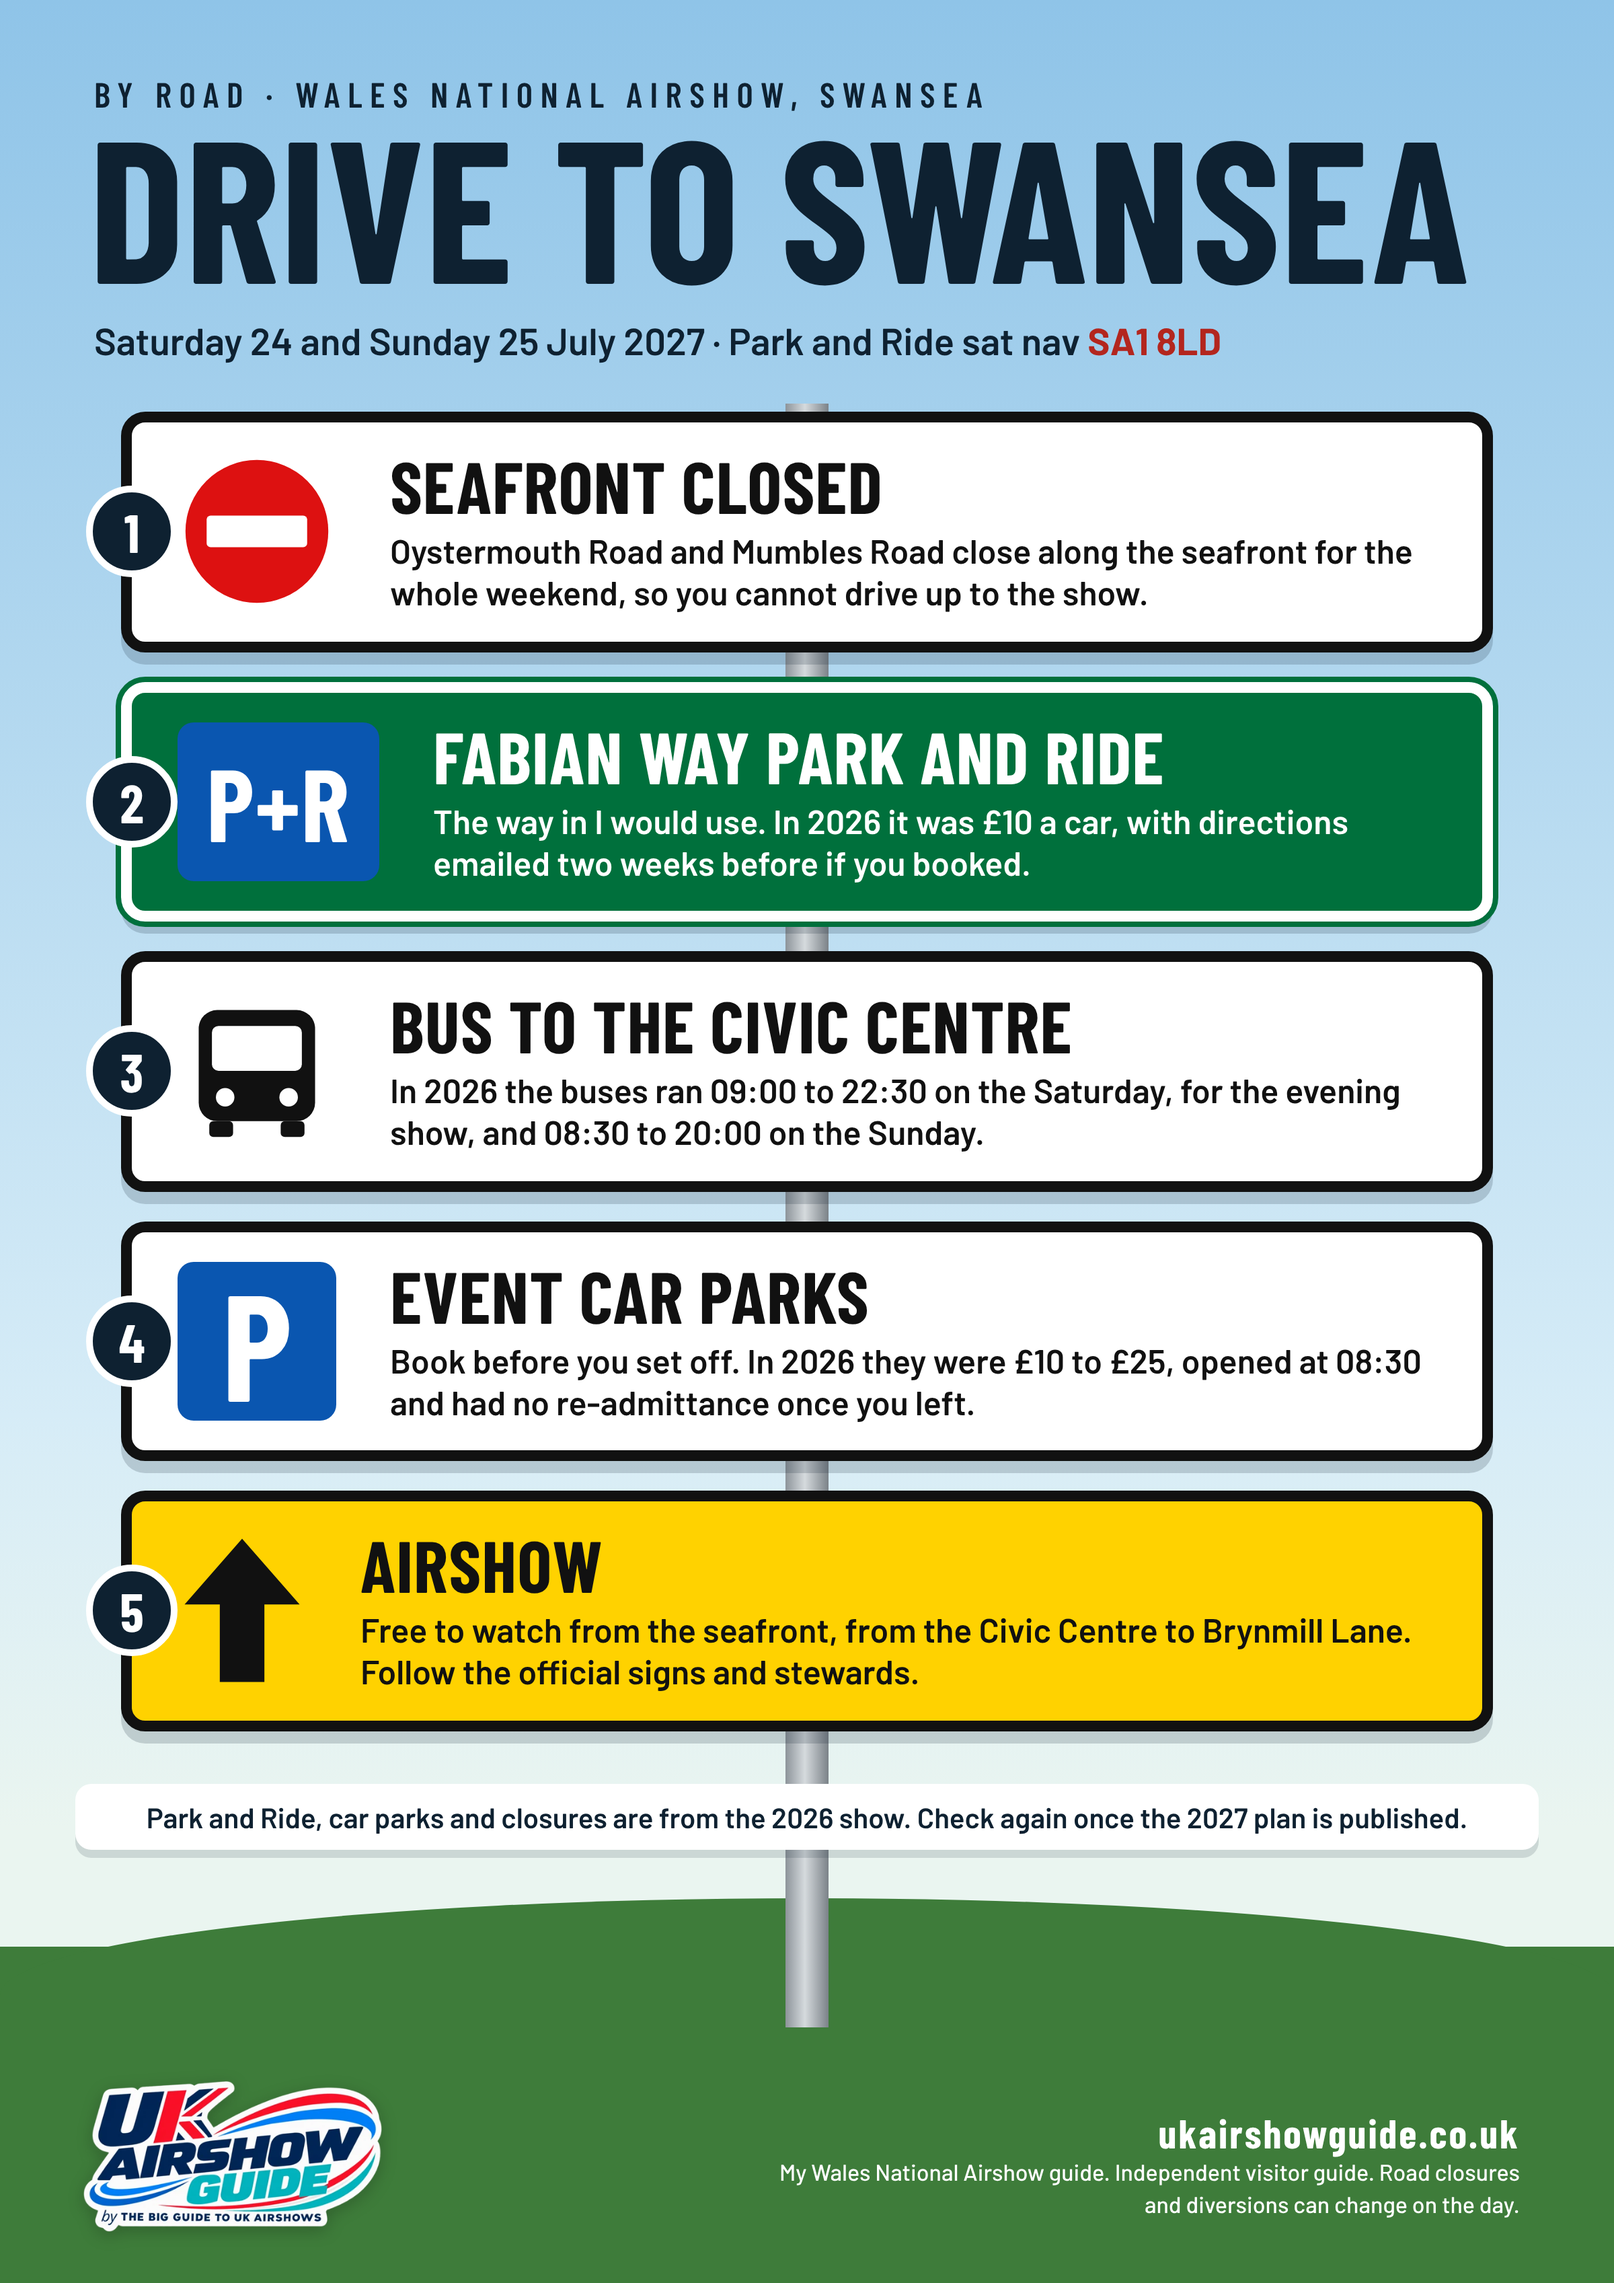
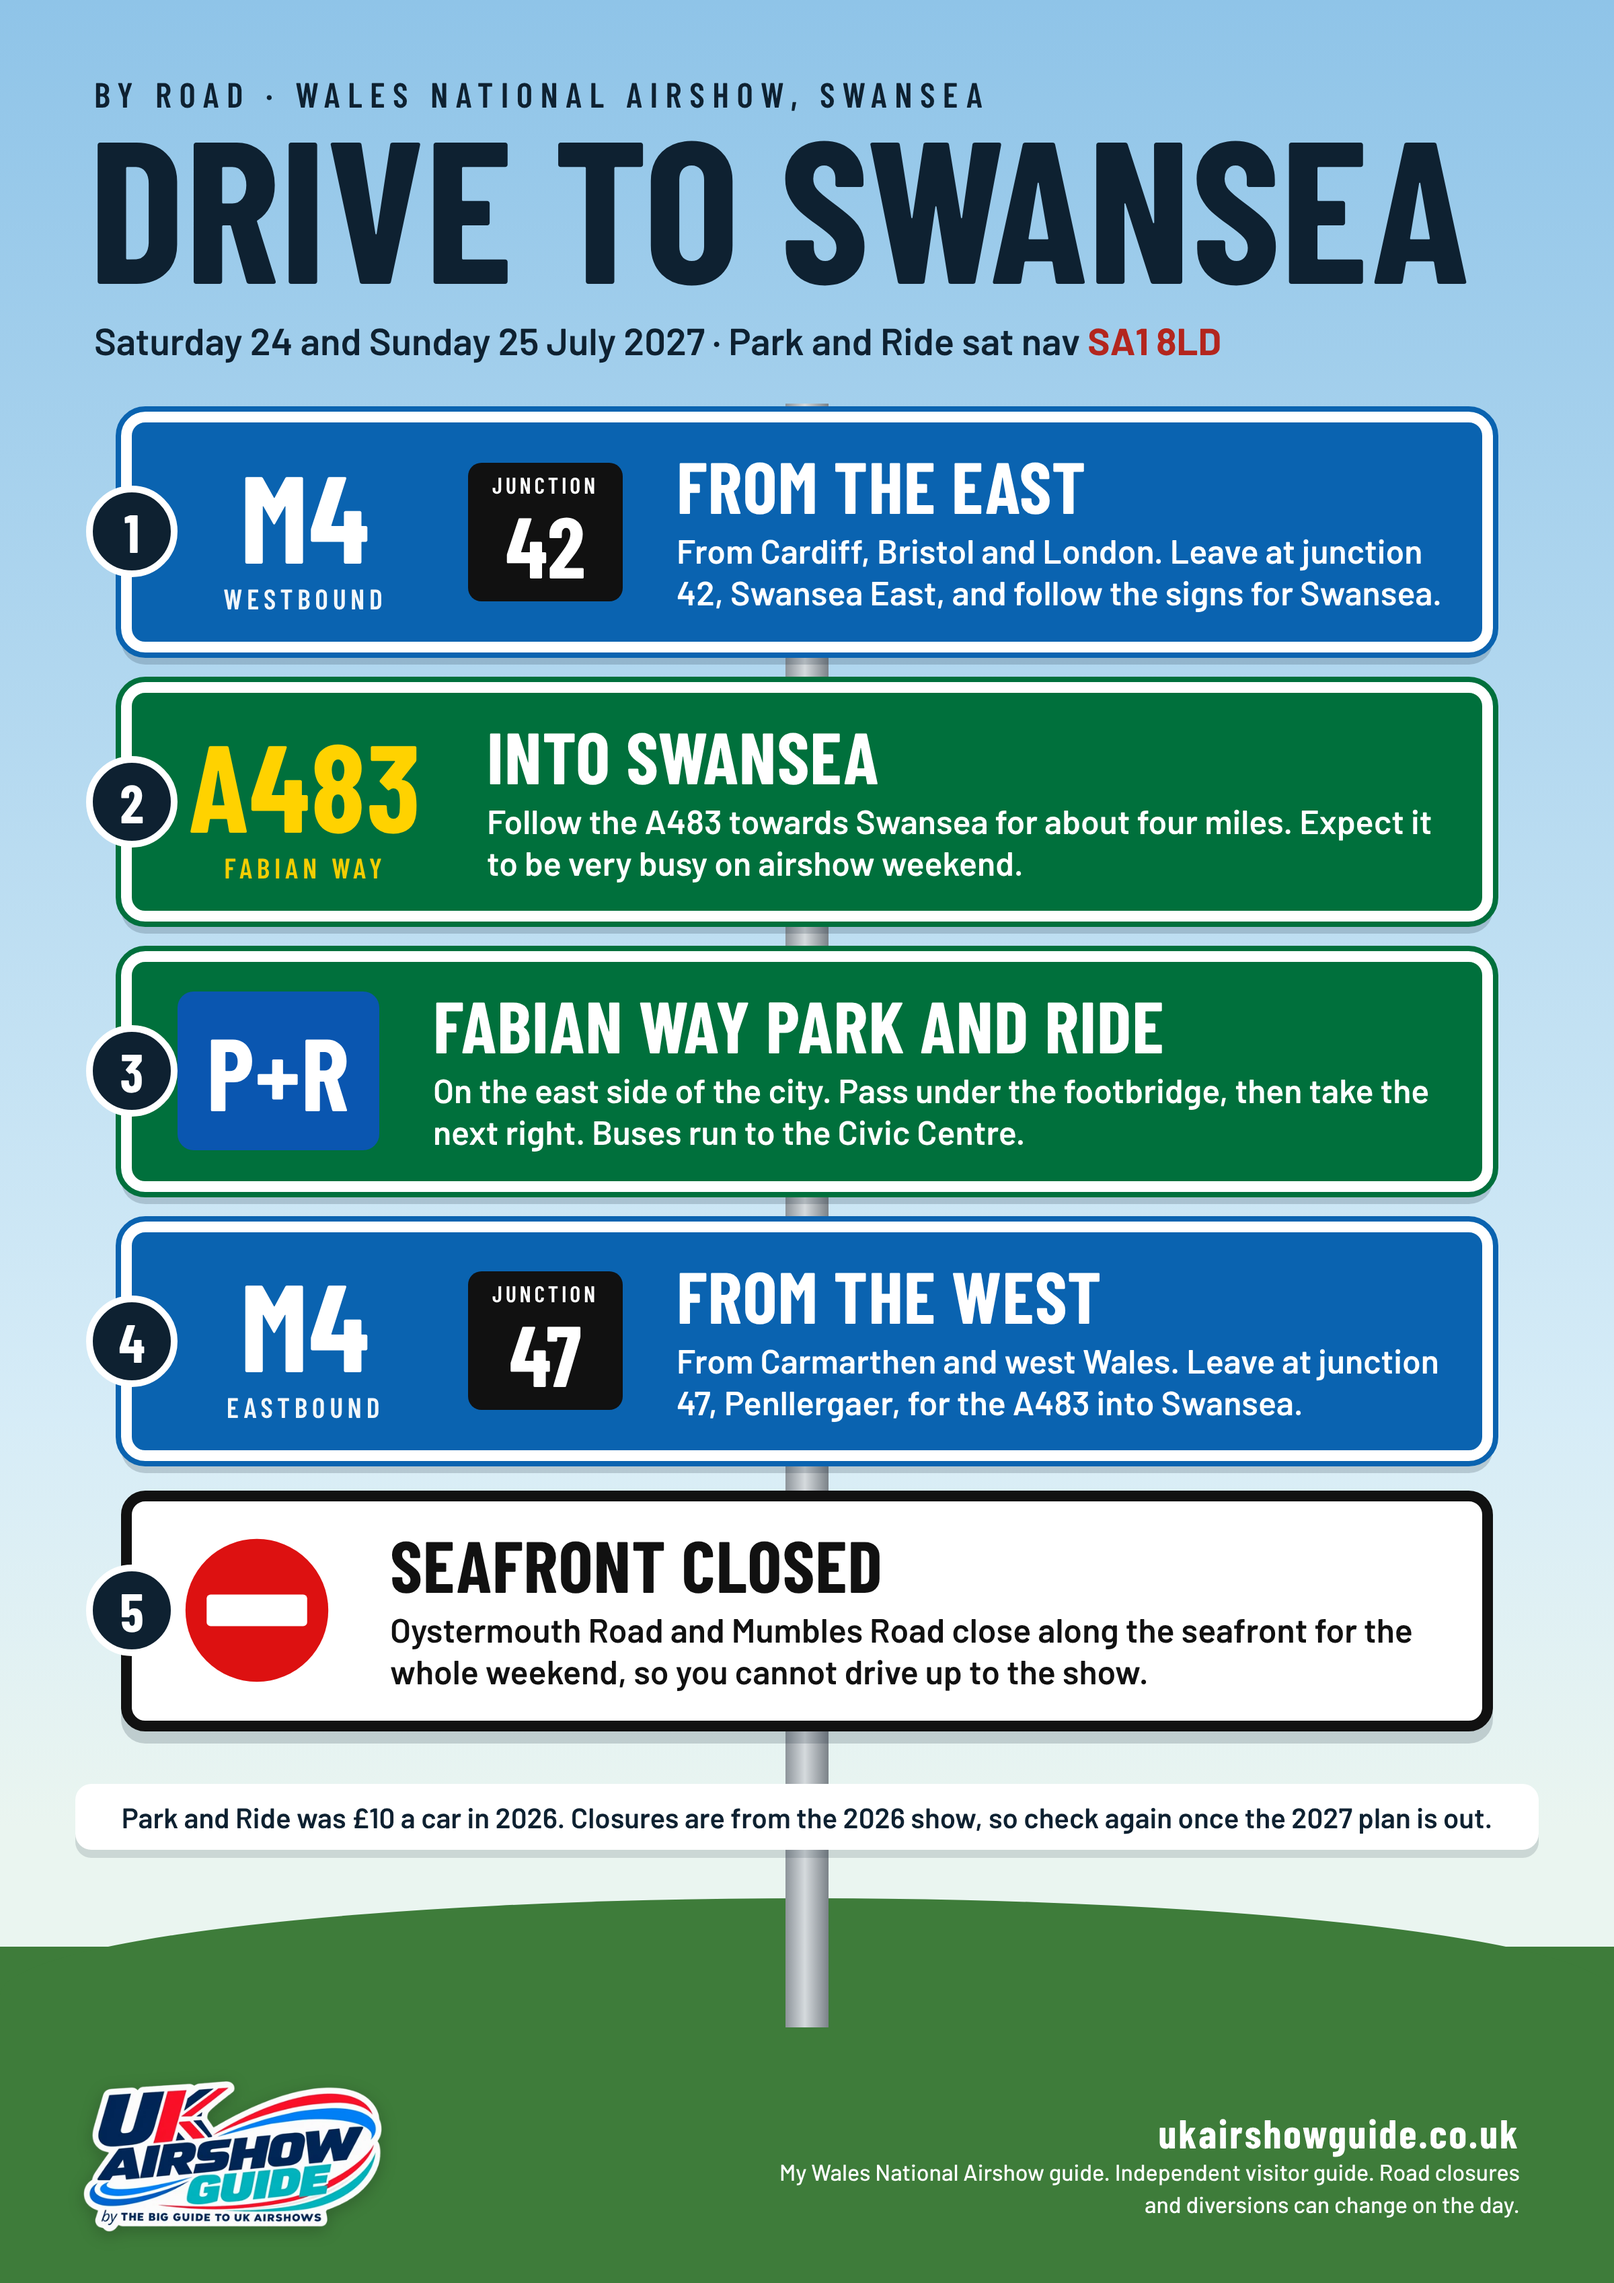
Posters: Swansea road signs with M4 junctions, the A483 and directions
Claude-Session: https://claude.ai/code/session_01CAsoXMemAtBndXNbXZbhzA

diff --git a/posters/17-drive-to-wales-airshow-road-signs.html b/posters/17-drive-to-wales-airshow-road-signs.html
@@ -5,13 +5,13 @@
   <div class="grass"></div><div class="pole"></div>
   <div class="k">By road · Wales National Airshow, Swansea</div><h1>Drive to Swansea</h1><div class="sub">Saturday 24 and Sunday 25 July 2027 · Park and Ride sat nav <b>SA1 8LD</b></div>
   <div class="signs">
-    <div class="sign local"><span class="n">1</span><svg class="ic" viewBox="0 0 120 120"><circle cx="60" cy="60" r="54" fill="#D11"/><rect x="22" y="48" width="76" height="24" rx="3" fill="#fff"/></svg><div class="t"><h2>Seafront closed</h2><p>Oystermouth Road and Mumbles Road close along the seafront for the whole weekend, so you cannot drive up to the show.</p></div></div>
-    <div class="sign prim"><span class="n">2</span><div class="pk" style="width:150px;font-size:76px;letter-spacing:.01em">P+R</div><div class="t"><h2>Fabian Way Park and Ride</h2><p>The way in I would use. In 2026 it was £10 a car, with directions emailed two weeks before if you booked.</p></div></div>
-    <div class="sign local"><span class="n">3</span><svg class="ic" viewBox="0 0 120 120"><rect x="16" y="14" width="88" height="84" rx="14" fill="#111"/><rect x="26" y="26" width="68" height="34" rx="5" fill="#fff"/><circle cx="36" cy="80" r="7" fill="#fff"/><circle cx="84" cy="80" r="7" fill="#fff"/><rect x="24" y="98" width="18" height="12" rx="3" fill="#111"/><rect x="78" y="98" width="18" height="12" rx="3" fill="#111"/></svg><div class="t"><h2>Bus to the Civic Centre</h2><p>In 2026 the buses ran 09:00 to 22:30 on the Saturday, for the evening show, and 08:30 to 20:00 on the Sunday.</p></div></div>
-    <div class="sign local"><span class="n">4</span><div class="pk">P</div><div class="t"><h2>Event car parks</h2><p>Book before you set off. In 2026 they were £10 to £25, opened at 08:30 and had no re-admittance once you left.</p></div></div>
-    <div class="sign event"><span class="n">5</span><svg class="ic" viewBox="0 0 110 130" style="width:96px"><path d="M55 4 L104 60 H74 V126 H36 V60 H6Z" fill="#111"/></svg><div class="t"><h2>Airshow</h2><p>Free to watch from the seafront, from the Civic Centre to Brynmill Lane. Follow the official signs and stewards.</p></div></div>
+    <div class="sign mway"><span class="n">1</span><div class="rd">M4<small>Westbound</small></div><div class="jn"><small>JUNCTION</small>42</div><div class="t"><h2>From the east</h2><p>From Cardiff, Bristol and London. Leave at junction 42, Swansea East, and follow the signs for Swansea.</p></div></div>
+    <div class="sign prim"><span class="n">2</span><div class="rd">A483<small>Fabian Way</small></div><div class="t"><h2>Into Swansea</h2><p>Follow the A483 towards Swansea for about four miles. Expect it to be very busy on airshow weekend.</p></div></div>
+    <div class="sign prim"><span class="n">3</span><div class="pk" style="width:150px;font-size:76px;letter-spacing:.01em">P+R</div><div class="t"><h2>Fabian Way Park and Ride</h2><p>On the east side of the city. Pass under the footbridge, then take the next right. Buses run to the Civic Centre.</p></div></div>
+    <div class="sign mway"><span class="n">4</span><div class="rd">M4<small>Eastbound</small></div><div class="jn"><small>JUNCTION</small>47</div><div class="t"><h2>From the west</h2><p>From Carmarthen and west Wales. Leave at junction 47, Penllergaer, for the A483 into Swansea.</p></div></div>
+    <div class="sign local"><span class="n">5</span><svg class="ic" viewBox="0 0 120 120"><circle cx="60" cy="60" r="54" fill="#D11"/><rect x="22" y="48" width="76" height="24" rx="3" fill="#fff"/></svg><div class="t"><h2>Seafront closed</h2><p>Oystermouth Road and Mumbles Road close along the seafront for the whole weekend, so you cannot drive up to the show.</p></div></div>
   </div>
-  <div class="note">Park and Ride, car parks and closures are from the 2026 show. Check again once the 2027 plan is published.</div>
+  <div class="note">Park and Ride was £10 a car in 2026. Closures are from the 2026 show, so check again once the 2027 plan is out.</div>
   <div class="foot"><span class="logo"><img src="logo.png" alt="UK Airshow Guide"></span>
   <small><b>ukairshowguide.co.uk</b>My Wales National Airshow guide. Independent visitor guide. Road closures and diversions can change on the day.</small></div>
 </div></body></html>

diff --git a/posters/roadsign.css b/posters/roadsign.css
@@ -30,3 +30,4 @@
 .rs .foot{position:absolute;left:70px;right:70px;bottom:46px;display:flex;justify-content:space-between;align-items:flex-end;color:#fff}
 .rs .foot small{font-size:17px;line-height:1.4;max-width:580px;text-align:right;font-weight:500}
 .rs .foot small b{display:block;font:700 30px 'Barlow Condensed',sans-serif;letter-spacing:.05em}
+.rs .rd small{display:block;font:600 21px/1 'Barlow Condensed',sans-serif;letter-spacing:.16em;text-transform:uppercase;margin-top:6px;color:inherit;opacity:.95}
